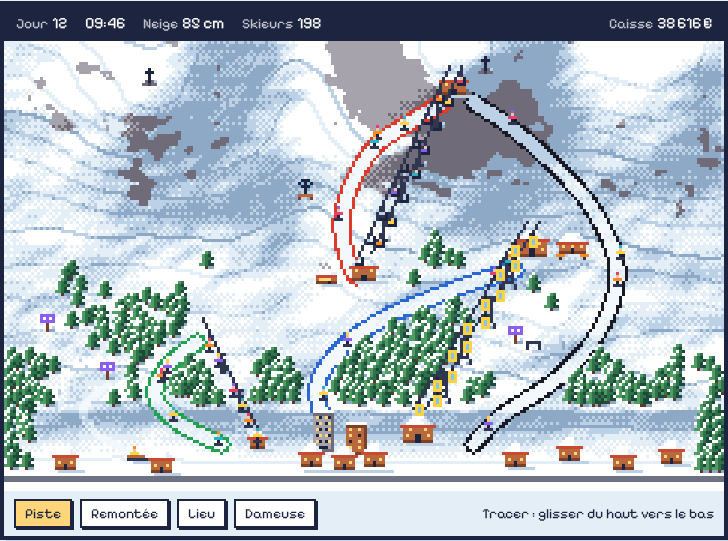
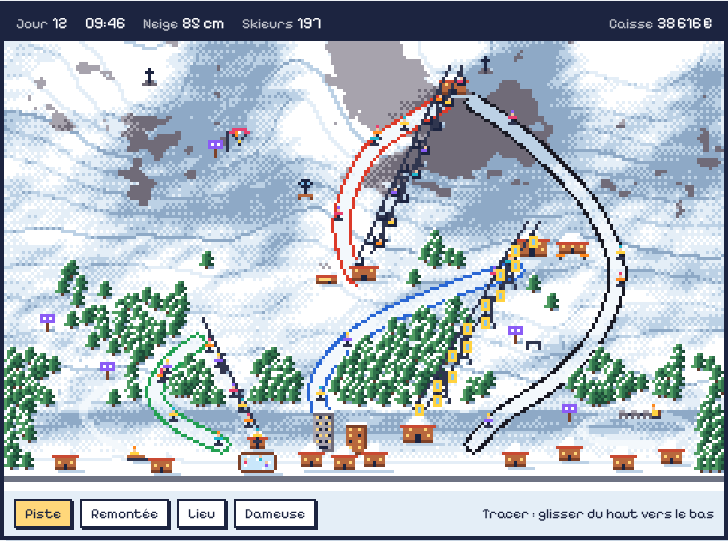
docs(charte) : chiens de traîneau, parapente et patinoire
Trois activités de plus, dans la famille violette : un attelage de
chiens sur une boucle damée, une manche à air et des parapentes qui
survolent le domaine, une patinoire dans la station.

diff --git a/docs/charte/planche.html b/docs/charte/planche.html
@@ -145,7 +145,7 @@ h2{font-size:24px;font-weight:700;letter-spacing:-.01em}
           <span class="tip" id="tip">Tracer : glisser du haut vers le bas</span>
         </div>
       </div>
-      <p class="note">La station d'essai : un téléski, un télésiège, une télécabine, quatre pistes, la station au pied du domaine et sept lieux. Le décor est généré pour juger l'ensemble ; les dessins définitifs viendront ensuite.</p>
+      <p class="note">La station d'essai : un téléski, un télésiège, une télécabine, quatre pistes, la station au pied du domaine et dix lieux. Le décor est généré pour juger l'ensemble ; les dessins définitifs viendront ensuite.</p>
     </div>
 
     <aside class="legend" aria-labelledby="leg-t">
@@ -171,6 +171,9 @@ h2{font-size:24px;font-weight:700;letter-spacing:-.01em}
         <li><canvas class="px" width="11" height="11" data-picto="luge" aria-hidden="true"></canvas>Luge</li>
         <li><canvas class="px" width="11" height="11" data-picto="raquettes" aria-hidden="true"></canvas>Raquettes</li>
         <li><canvas class="px" width="11" height="11" data-picto="snowpark" aria-hidden="true"></canvas>Snowpark</li>
+        <li><canvas class="px" width="11" height="11" data-picto="chiens" aria-hidden="true"></canvas>Chiens de traîneau</li>
+        <li><canvas class="px" width="11" height="11" data-picto="parapente" aria-hidden="true"></canvas>Parapente</li>
+        <li><canvas class="px" width="11" height="11" data-picto="patinoire" aria-hidden="true"></canvas>Patinoire</li>
       </ul></div>
     </aside>
   </section>
@@ -388,7 +391,7 @@ const mapper = over => ch => ({
   a: P.pine[0], b: P.pine[1], c: P.pine[2], t: P.trunk,
   r: P.roof, w: P.wood[0], W: P.wood[1], d: P.ink, k: P.cable, l: P.light, f: P.skin, p: P.ink,
   g: P.rock[0], G: P.rock[1], x: P.rock[2],
-  y: P.jackets[1], o: P.jackets[0], v: P.jackets[4], B: P.sky[1],
+  y: P.jackets[1], o: P.jackets[0], v: P.jackets[4], m: P.jackets[2], B: P.sky[1], I: P.sky[2],
   h: over ? over.h : P.jackets[0], j: over ? over.j : P.jackets[1]
 })[ch] || 0;
 
@@ -411,6 +414,10 @@ const SPR = {
   sled:        ["..h....","..f....",".jjj...","wwwwww.","kkkkkkk"],
   kicker:      [".........ss..","........sSSn.",".......sSSSn.","kkkkk.sSSSSnN","k...k.nnnnnnN","k...k........"],
   sign:        ["vvvvv","vsvsv","vvvvv","..W..","..W..","..W.."],
+  traineau:    ["...........h..","...........f..","gg..gg..gg.jjW","GGGkGGGkGGGjjW","G.G.G.G.G.Gkkk"],
+  windsock:    ["kosos","k.so.","k....","k....","k....","k....","k...."],
+  rink:        [".WWWWWWWWWWW.","WIIsIIIIIIIIW","WIIIIIsIIIIIW","WIIIIIIIIIsIW","WIsIIIIIIIIIW","WIIIIIIIsIIIW",".WWWWWWWWWWW."],
+  paraglider:  [".mmmmm.","mm...mm",".k...k.","..k.k..","...j...","...p..."],
   skier:       [".h.",".f.","jjj",".p.","kkk"]
 };
 function compileSpr(rows, map) {
@@ -503,13 +510,17 @@ const POIS = [
   { x:100, y:52,  s:'belvedere' },
   { x:180, y:102, s:'kicker' },     { x:170, y:100, s:'sign' },
   { x:34,  y:112, s:'sign' },       { x:44,  y:139, s:'sled' },
-  { x:14,  y:96,  s:'sign' }
+  { x:14,  y:96,  s:'sign' },
+  { x:212, y:125, s:'traineau' },   { x:188, y:126, s:'sign' },
+  { x:76,  y:36,  s:'windsock' },   { x:70,  y:38,  s:'sign' },
+  { x:84,  y:143, s:'rink' }
 ];
+const TRAINEAU = Array.from({ length: 160 }, (_, k) => [210 + 18 * Math.cos(k / 160 * 2 * Math.PI), 129 + 5 * Math.sin(k / 160 * 2 * Math.PI)]);
 const CHALETS = [[20,142],[52,143],[170,141],[188,139],[206,142],[222,140]];
 
 const pd = new Float32Array(W * H).fill(99), pid = new Int8Array(W * H).fill(-1);
 PISTES.forEach((p, k) => stamp(p.path, 4, pd, pid, k));
-const ld = new Float32Array(W * H).fill(99); stamp(LUGE, 2, ld);
+const ld = new Float32Array(W * H).fill(99); stamp(LUGE, 2, ld); stamp(TRAINEAU, 2, ld);
 const rd = new Float32Array(W * H).fill(99); stamp(RAQUETTES, 3, rd);
 
 const mat = new Uint8Array(W * H), lvl = new Uint8Array(W * H), con = new Uint8Array(W * H);
@@ -601,6 +612,12 @@ function cableAt(L, t) {
   const l = pts[pts.length - 1]; return [l.x, l.y];
 }
 function drawDyn(b, time) {
+  const fly = (time / 40) % 1, fx = Math.round(78 - 60 * fly + 5 * Math.sin(fly * 6 * Math.PI)), fy = Math.round(28 + 72 * fly);
+  for (let dx = -2; dx <= 2; dx++) putG(b, W, H, fx + 6 + dx, fy + 14, P.snow[2]);
+  for (let k = 0; k < 3; k++) {
+    const a = time * 0.9 + k * 2.1, sx = Math.round(84 + 4 * Math.cos(a)), sy = Math.round(140 + 1.2 * Math.sin(a));
+    putG(b, W, H, sx, sy - 1, P.skin); putG(b, W, H, sx, sy, P.jackets[(k + 2) % 5]);
+  }
   for (const s of SKIERS) {
     const p = PISTES[s.p], d = (s.off + time * s.speed) % p.len;
     const [x, y, nx, ny] = pathAt(p, d), w = Math.sin(d * 0.35 + s.seed) * 1.5;
@@ -623,6 +640,7 @@ function drawDyn(b, time) {
       }
     }
   }
+  blitG(b, W, H, SP.paraglider, fx, fy);
 }
 
 /* ---------- pictogrammes ---------- */
@@ -644,7 +662,10 @@ const PICTOS = {
   vue:        { cat:'nat', rows:[".kk...kk.",".kk...kk.","kkkkkkkkk","kkkk.kkkk","kkk...kkk","k..k.k..k","k..k.k..k","kkkk.kkkk","........."] },
   luge:       { cat:'act', rows:[".........",".........",".........",".kkkkkkk.",".kkkkkkk.","..k...k..","..k...k.k","kkkkkkkk.","........."] },
   raquettes:  { cat:'act', rows:["..kkkkk..",".k.k.k.k.",".kkkkkkk.",".k.k.k.k.",".kkkkkkk.","..k.k.k..","...kkk...","....k....","....k...."] },
-  snowpark:   { cat:'act', rows:["......k..",".....kkk.","......k..",".........","......k..","....kkk..","..kkkkk..","kkkkkkk..","kkkkkkk.."] }
+  snowpark:   { cat:'act', rows:["......k..",".....kkk.","......k..",".........","......k..","....kkk..","..kkkkk..","kkkkkkk..","kkkkkkk.."] },
+  chiens:     { cat:'act', rows:[".........","......k.k","k.....kkk",".k...kkkk","..kkkkkk.","..kkkkkk.","..k..k.k.","..k..k.k.","........."] },
+  parapente:  { cat:'act', rows:["..kkkkk..",".kkkkkkk.","kk.....kk","k.k...k.k","...k.k...","....k....","...kkk...","....k....","...k.k..."] },
+  patinoire:  { cat:'act', rows:["..kk.....","..kk.....","..kkk....","..kkkkk..","..kkkkkk.",".kkkkkkk.","..k...k..","kkkkkkkkk","........."] }
 };
 function drawPicto(b, bw, bh, ox, oy, key) {
   const d = PICTOS[key], cat = CATS[d.cat];
@@ -703,7 +724,10 @@ const POI_CARDS = [
   ['belvedere', 'vue', 'Point de vue', 'nat', 'Une longue-vue sur un ponton de bois.', '5 × 7'],
   ['sled', 'luge', 'Luge', 'act', 'Une piste de luge damée, au départ d\'un panneau violet.', '7 × 5'],
   ['sign', 'raquettes', 'Raquettes', 'act', 'Un sentier de traces dans la forêt, au départ d\'un panneau violet.', '5 × 6'],
-  ['kicker', 'snowpark', 'Snowpark', 'act', 'Un tremplin et une barre de slide, signalés par le même panneau.', '13 × 6']
+  ['kicker', 'snowpark', 'Snowpark', 'act', 'Un tremplin et une barre de slide, signalés par le même panneau.', '13 × 6'],
+  ['traineau', 'chiens', 'Chiens de traîneau', 'act', 'Un attelage de trois chiens et son musher, sur une boucle damée au pied des pistes.', '14 × 5'],
+  ['windsock', 'parapente', 'Parapente', 'act', 'Une manche à air sur un replat. Les voiles passent au-dessus du domaine, leur ombre sur la neige.', '5 × 7'],
+  ['rink', 'patinoire', 'Patinoire', 'act', 'Une patinoire bordée de bois, dans la station, où tournent les patineurs.', '13 × 7']
 ];
 document.getElementById('poiCards').innerHTML = POI_CARDS.map(([s, picto, name, cat, desc, size]) => `
   <article class="card">
@@ -718,7 +742,7 @@ document.querySelectorAll('#poiCards canvas[data-picto]').forEach(c => paint(c, 
 document.querySelectorAll('canvas[data-poi]').forEach(c => paint(c, (b, w, h) => {
   fill(b, P.snow[1]);
   const s = c.dataset.poi, x = 10, y = h - 2, spr = SP[s];
-  if (s === 'sled') for (let xx = 0; xx < w; xx++) putG(b, w, h, xx, y + 1, P.groomed);
+  if (s === 'sled' || s === 'traineau') for (let xx = 0; xx < w; xx++) putG(b, w, h, xx, y + 1, P.groomed);
   if (s === 'sign') { for (let k = 0; k < 4; k++) { putG(b, w, h, x + 4 + k * 2, y - (k % 2), P.snow[2]); } }
   if (spr.w <= 5) { putG(b, w, h, x + 1, y, P.snow[3]); putG(b, w, h, x + 2, y, P.snow[3]); }
   else for (let dx = -(spr.w >> 1) + 2; dx <= (spr.w >> 1) + 2; dx++) putG(b, w, h, x + dx, y + 1, P.snow[2]);

diff --git a/docs/CHARTE.md b/docs/CHARTE.md
@@ -126,6 +126,8 @@ du bas, au milieu : c'est le point où l'objet touche la neige.
 | Croix de sommet | 5 × 6 |
 | Longue-vue | 5 × 7 |
 | Luge / panneau d'activité / snowpark | 7 × 5 / 5 × 6 / 13 × 6 |
+| Attelage de chiens / manche à air / patinoire | 14 × 5 / 5 × 7 / 13 × 7 |
+| Parapente en vol | 7 × 6 |
 | Pictogramme | 11 × 11 |
 
 ## Les remontées
@@ -144,7 +146,7 @@ Le pylône suffit à reconnaître le type, même quand aucun véhicule ne passe.
 
 ## La station et les lieux
 
-![La station et les sept lieux, chacun avec son pictogramme](charte/lieux.png)
+![La station et les dix lieux, chacun avec son pictogramme](charte/lieux.png)
 
 Sur la carte, chaque lieu est dessiné. Dans l'interface (légende, bulles,
 menus), il est représenté par son **pictogramme** : une pastille de 11 × 11,
@@ -161,6 +163,9 @@ encre ou en blanc selon le contraste.
 | Luge | Activités | Une piste de luge damée, une luge, un panneau violet |
 | Raquettes | Activités | Un sentier de traces dans la forêt, un panneau violet |
 | Snowpark | Activités | Un tremplin et une barre de slide, un panneau violet |
+| Chiens de traîneau | Activités | Un attelage de trois chiens et son musher sur une boucle damée, un panneau violet |
+| Parapente | Activités | Une manche à air sur un replat, un panneau violet ; les voiles passent au-dessus du domaine, leur ombre sur la neige |
+| Patinoire | Activités | Une patinoire bordée de bois, dans la station, où tournent les patineurs |
 
 Les remontées ont aussi leur pictogramme (famille jaune) : une perche, un
 siège, une cabine.
